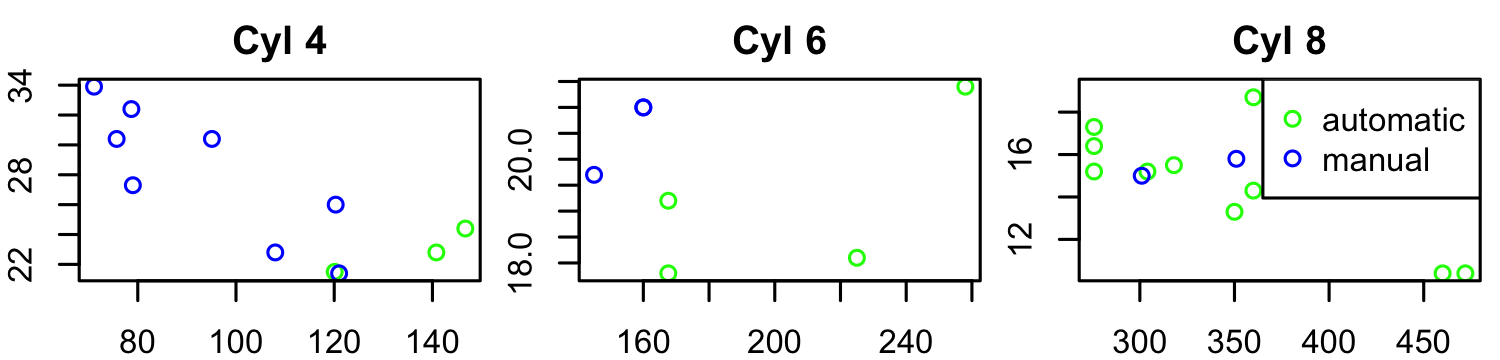
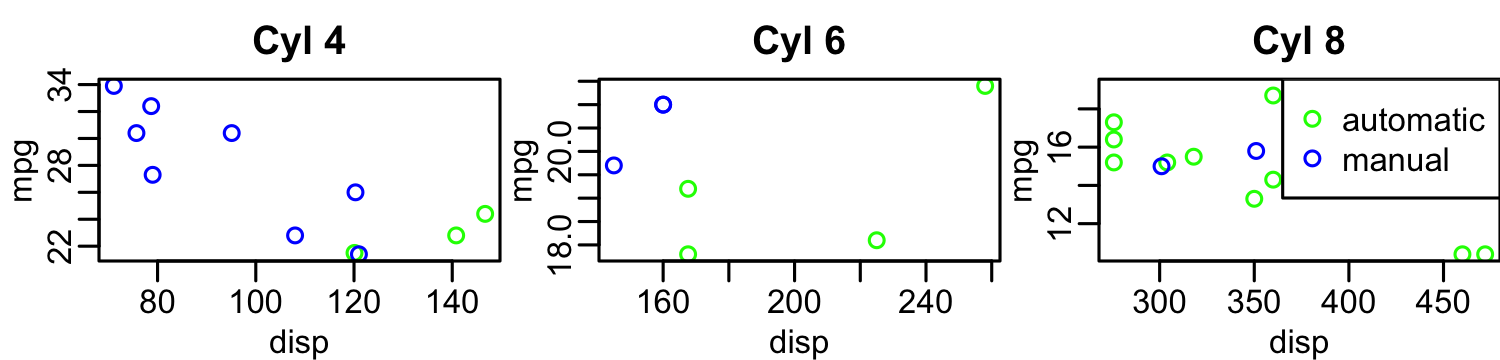
Update fig margins

diff --git a/materials/02-teach-tidyverse/slides/02-teach-tidyverse.html b/materials/02-teach-tidyverse/slides/02-teach-tidyverse.html
@@ -151,12 +151,10 @@ mtcars &lt;- mtcars %&gt;%
 .small[
 
 ```r
-mtcars$trans_color &lt;- ifelse(mtcars$transmission == "automatic",
-                             "green", "blue")
-par(mar=c(0,0,0,0))
+mtcars$trans_color &lt;- ifelse(mtcars$transmission == "automatic", "green", "blue")
+par(mar = c(2.5, 2.5, 0, 0), mgp = c(1.5, 0.5, 0))
 plot(mtcars$mpg ~ mtcars$disp, col = mtcars$trans_color)
-legend("topright",
-       legend = c("automatic", "manual"),
+legend("topright", legend = c("automatic", "manual"),
        pch = 1, col = c("green", "blue"))
 ```
 
@@ -172,8 +170,7 @@ legend("topright",
 
 ```r
 ggplot(mtcars,
-       aes(x = disp, y = mpg,
-           color = transmission)) +
+       aes(x = disp, y = mpg, color = transmission)) +
   geom_point()
 ```
 
@@ -191,7 +188,7 @@ ggplot(mtcars,
 mtcars_cyl4 = mtcars[mtcars$cyl == 4, ]
 mtcars_cyl6 = mtcars[mtcars$cyl == 6, ]
 mtcars_cyl8 = mtcars[mtcars$cyl == 8, ]
-par(mfrow = c(1, 3), mar = c(2,2,2,0.5))
+par(mfrow = c(1, 3), mar = c(2.5, 2.5, 2, 0), mgp = c(1.5, 0.5, 0))
 plot(mpg ~ disp, data = mtcars_cyl4, col = trans_color, main = "Cyl 4")
 plot(mpg ~ disp, data = mtcars_cyl6, col = trans_color, main = "Cyl 6")
 plot(mpg ~ disp, data = mtcars_cyl8, col = trans_color, main = "Cyl 8")
@@ -211,8 +208,7 @@ legend("topright", legend = c("automatic", "manual"),
 
 ```r
 ggplot(mtcars,
-       aes(x = disp, y = mpg,
-           color = transmission)) +
+       aes(x = disp, y = mpg, color = transmission)) +
   geom_point() +
   facet_wrap(~ cyl)
 ```
@@ -414,7 +410,7 @@ class: middle
 
 The American Association of University Professors (AAUP) is a nonprofit membership association of faculty and other academic professionals. [This report](https://www.aaup.org/sites/default/files/files/AAUP_Report_InstrStaff-75-11_apr2013.pdf) by the AAUP shows trends in instructional staff employees between 1975 and 2011, and contains an image very similar to the one given below.
 
-&lt;img src="img/staff-employment.png" width="60%" style="display: block; margin: auto;" /&gt;
+&lt;img src="img/staff-employment.png" width="50%" style="display: block; margin: auto;" /&gt;
 
 ---
 
@@ -505,7 +501,7 @@ pivot_longer(data, cols, names_to = "name",
 - **Stretch goal:** Convert the back to wide format from long format.
 ]
 
-<div class="countdown" id="timer_5e2f1144" style="right:0;bottom:0;" data-warnwhen="0">
+<div class="countdown" id="timer_5e334d33" style="right:0;bottom:0;" data-warnwhen="0">
 <code class="countdown-time"><span class="countdown-digits minutes">05</span><span class="countdown-digits colon">:</span><span class="countdown-digits seconds">00</span></code>
 </div>
 
@@ -544,11 +540,9 @@ staff_long
 
 ---
 
-.discussion[
-This doesn't look quite right, how would you fix it?
-]
+## Nope!
 
-.small[
+.midi[
 
 ```r
 staff_long %&gt;%
@@ -561,6 +555,8 @@ staff_long %&gt;%
 ]
 
 ---
+
+## Meh
 
 .midi[
 
@@ -650,7 +646,7 @@ class: middle
 Convert all factor variables in `evals` to characters. Keep in mind that this should be introductory audience friendly, if possible. For any function you choose, think about how you would introduce it to your students.
 ]
 
-<div class="countdown" id="timer_5e2f11ac" style="right:0;bottom:0;" data-warnwhen="0">
+<div class="countdown" id="timer_5e334e04" style="right:0;bottom:0;" data-warnwhen="0">
 <code class="countdown-time"><span class="countdown-digits minutes">03</span><span class="countdown-digits colon">:</span><span class="countdown-digits seconds">00</span></code>
 </div>
 
@@ -679,7 +675,7 @@ Solve the same problem using `dplyr::across()`.
 countdown(minutes = 3)
 ```
 
-<div class="countdown" id="timer_5e2f13ed" style="right:0;bottom:0;" data-warnwhen="0">
+<div class="countdown" id="timer_5e334d2c" style="right:0;bottom:0;" data-warnwhen="0">
 <code class="countdown-time"><span class="countdown-digits minutes">03</span><span class="countdown-digits colon">:</span><span class="countdown-digits seconds">00</span></code>
 </div>
 
@@ -705,19 +701,20 @@ evals %&gt;% select(score, starts_with("bty_"))
 
 ```
 ## # A tibble: 463 x 8
-##    score bty_f1lower bty_f1upper bty_f2upper bty_m1lower bty_m1upper bty_m2upper
-##    &lt;dbl&gt;       &lt;int&gt;       &lt;int&gt;       &lt;int&gt;       &lt;int&gt;       &lt;int&gt;       &lt;int&gt;
-##  1   4.7           5           7           6           2           4           6
-##  2   4.1           5           7           6           2           4           6
-##  3   3.9           5           7           6           2           4           6
-##  4   4.8           5           7           6           2           4           6
-##  5   4.6           4           4           2           2           3           3
-##  6   4.3           4           4           2           2           3           3
-##  7   2.8           4           4           2           2           3           3
-##  8   4.1           5           2           5           2           3           3
-##  9   3.4           5           2           5           2           3           3
-## 10   4.5           2           5           4           3           3           2
-## # … with 453 more rows, and 1 more variable: bty_avg &lt;dbl&gt;
+##    score bty_f1lower bty_f1upper bty_f2upper bty_m1lower bty_m1upper
+##    &lt;dbl&gt;       &lt;int&gt;       &lt;int&gt;       &lt;int&gt;       &lt;int&gt;       &lt;int&gt;
+##  1   4.7           5           7           6           2           4
+##  2   4.1           5           7           6           2           4
+##  3   3.9           5           7           6           2           4
+##  4   4.8           5           7           6           2           4
+##  5   4.6           4           4           2           2           3
+##  6   4.3           4           4           2           2           3
+##  7   2.8           4           4           2           2           3
+##  8   4.1           5           2           5           2           3
+##  9   3.4           5           2           5           2           3
+## 10   4.5           2           5           4           3           3
+## # … with 453 more rows, and 2 more variables: bty_m2upper &lt;int&gt;,
+## #   bty_avg &lt;dbl&gt;
 ```
 ]
 
@@ -924,18 +921,18 @@ sales %&gt;%
 
 ```
 ## # A tibble: 620 x 7
-##    gender first_name last_name        age phone_number hobbies   purchases       
-##    &lt;chr&gt;  &lt;chr&gt;      &lt;chr&gt;          &lt;dbl&gt; &lt;chr&gt;        &lt;list&gt;    &lt;list&gt;          
-##  1 Female Kimberly   Beckstead         24 216-555-2549 &lt;chr [2]&gt; &lt;named list [10…
-##  2 Male   Neel       Garvin            35 819-555-3189 &lt;chr [2]&gt; &lt;named list [10…
-##  3 Male   Neel       Garvin            35 819-555-3189 &lt;chr [2]&gt; &lt;named list [10…
-##  4 Female Chelsea    Bouchard          41 &lt;NA&gt;         &lt;chr [3]&gt; &lt;named list [10…
-##  5 Female Chelsea    Bouchard          41 &lt;NA&gt;         &lt;chr [3]&gt; &lt;named list [10…
-##  6 Female Chelsea    Bouchard          41 &lt;NA&gt;         &lt;chr [3]&gt; &lt;named list [10…
-##  7 Female Bryanna    Welsh             19 &lt;NA&gt;         &lt;chr [2]&gt; &lt;named list [10…
-##  8 Female Bryanna    Welsh             19 &lt;NA&gt;         &lt;chr [2]&gt; &lt;named list [10…
-##  9 Male   Caleb      Garcia-Wideman    37 907-555-9236 &lt;chr [3]&gt; &lt;named list [10…
-## 10 Male   Caleb      Garcia-Wideman    37 907-555-9236 &lt;chr [3]&gt; &lt;named list [10…
+##    gender first_name last_name       age phone_number hobbies  purchases     
+##    &lt;chr&gt;  &lt;chr&gt;      &lt;chr&gt;         &lt;dbl&gt; &lt;chr&gt;        &lt;list&gt;   &lt;list&gt;        
+##  1 Female Kimberly   Beckstead        24 216-555-2549 &lt;chr [2… &lt;named list […
+##  2 Male   Neel       Garvin           35 819-555-3189 &lt;chr [2… &lt;named list […
+##  3 Male   Neel       Garvin           35 819-555-3189 &lt;chr [2… &lt;named list […
+##  4 Female Chelsea    Bouchard         41 &lt;NA&gt;         &lt;chr [3… &lt;named list […
+##  5 Female Chelsea    Bouchard         41 &lt;NA&gt;         &lt;chr [3… &lt;named list […
+##  6 Female Chelsea    Bouchard         41 &lt;NA&gt;         &lt;chr [3… &lt;named list […
+##  7 Female Bryanna    Welsh            19 &lt;NA&gt;         &lt;chr [2… &lt;named list […
+##  8 Female Bryanna    Welsh            19 &lt;NA&gt;         &lt;chr [2… &lt;named list […
+##  9 Male   Caleb      Garcia-Widem…    37 907-555-9236 &lt;chr [3… &lt;named list […
+## 10 Male   Caleb      Garcia-Widem…    37 907-555-9236 &lt;chr [3… &lt;named list […
 ## # … with 610 more rows
 ```
 
@@ -1080,7 +1077,7 @@ tibble(run = 1:5) %&gt;%
 - There are many ways of getting to the answer
 - Some likely need more scaffolding than others
 - It's worth considering how much of `purrr` fits into your introductory data science curriculum
-  - We'll give one example later where `purrr` provides big wins!
+  - We'll give one example later where `purrr` provides big wins in the context of web scraping from many, similarly formatted pages!
 
 ---
 
